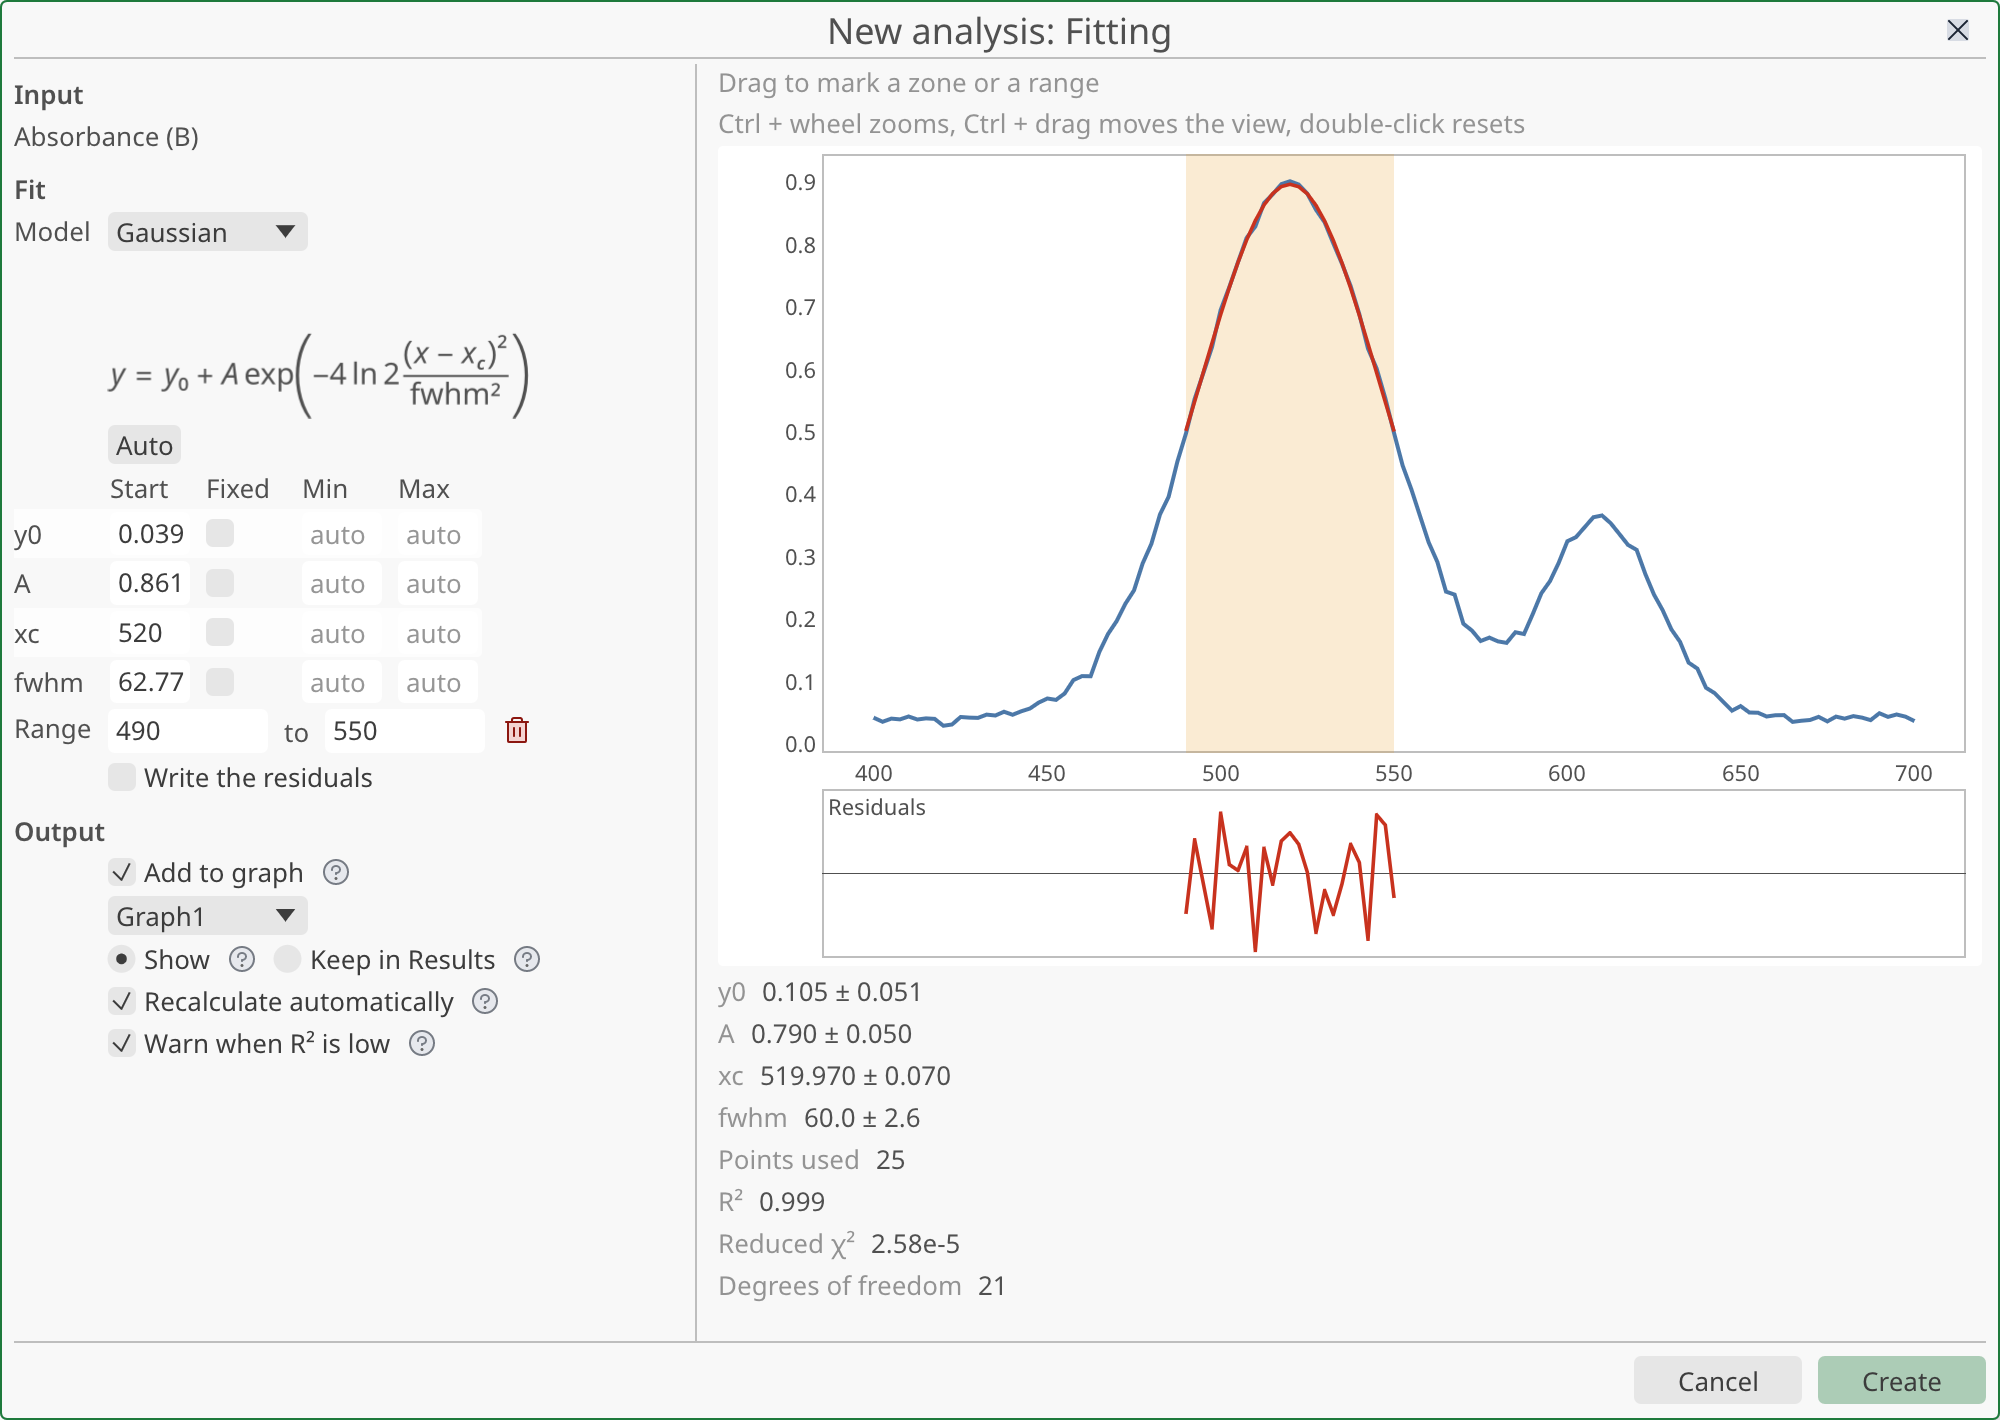
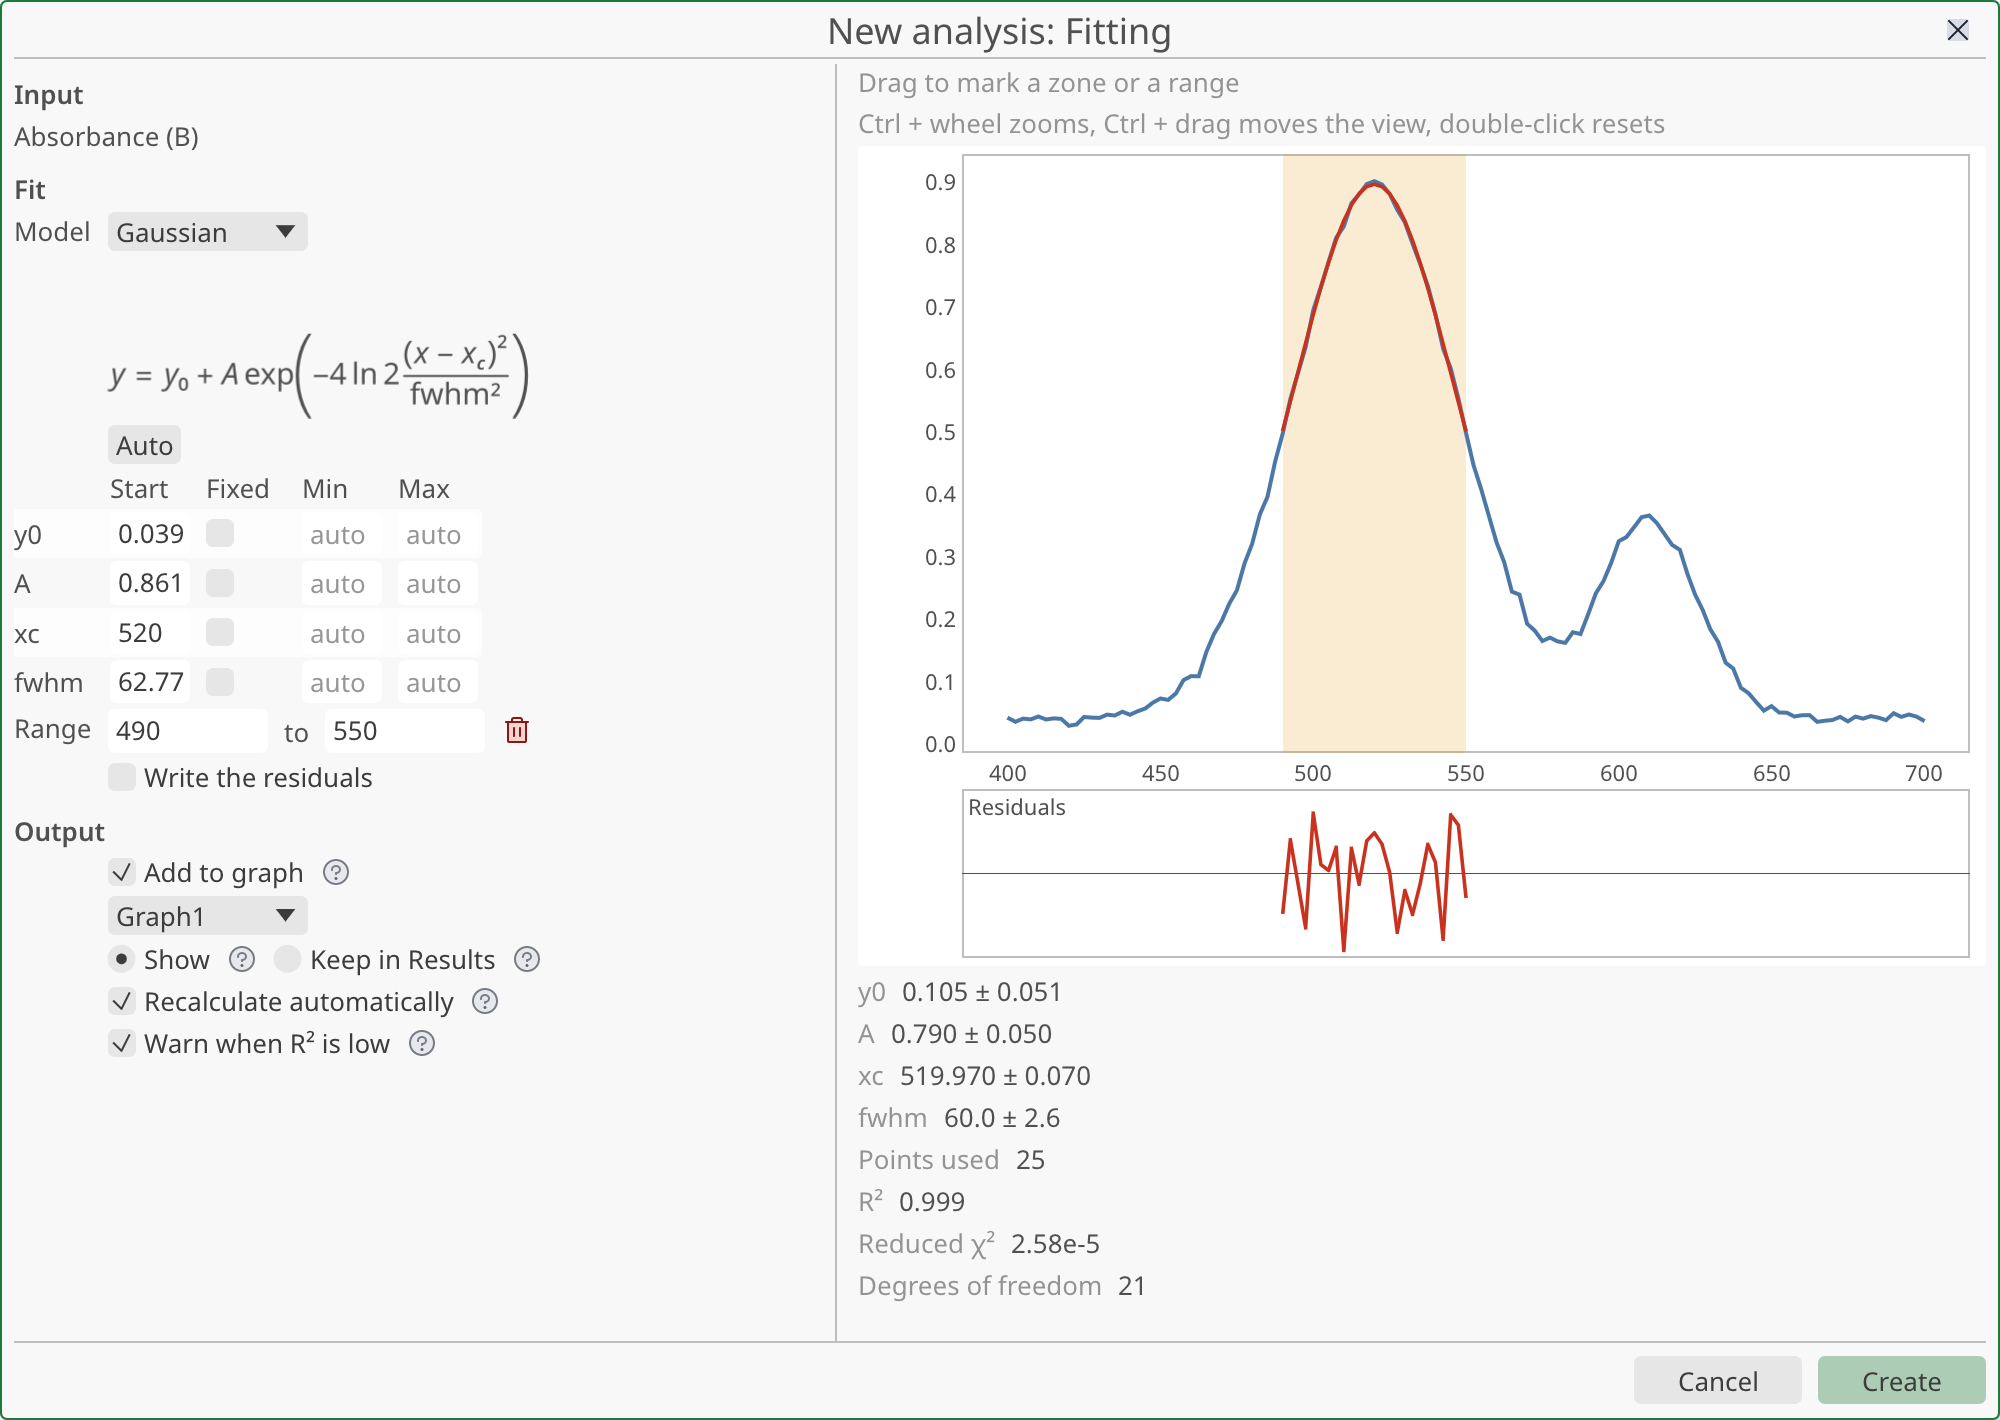
stokesforge-app: Peak Decomposition preview no longer overflows the analysis window (Closes #384)
The settings column of the analysis window was 330 pt wide but Peak
Decomposition needs about 380 pt (labels column plus the Range fields), so
the form widened while the preview width was still computed as if the
column were exactly 330 pt: the plot ran 50 pt out of the window and
"Keep in Results" wrapped. The preview now takes the width that really
remains after the form, and the column is 400 pt. Manual screenshots of the
analysis windows regenerated.

Claude-Session: https://claude.ai/code/session_01PxxG2ShyeKXrR6nqd4iMzf

diff --git a/crates/stokesforge-app/src/app/analysis_dialog.rs b/crates/stokesforge-app/src/app/analysis_dialog.rs
@@ -28,8 +28,15 @@ use stokesforge_app_state::r_squared::{level_of_value, RSquaredLevel};
 use stokesforge_app_state::state::{Action, AppState, CalculationDelete};
 use stokesforge_app_state::tr;
 
-/// Width of the settings column.
-const FORM_WIDTH: f32 = 330.0;
+/// Width of the settings column. It holds the widest form (Peak
+/// Decomposition: the labels column, then "Range" with its two fields, #384);
+/// a form that still exceeds it widens its column, and the preview takes only
+/// what remains (see `analysis_window`).
+const FORM_WIDTH: f32 = 400.0;
+/// Test seam of #384: the content rect of the window and the rect given to the
+/// preview, in ctx data under `id.with(LAYOUT_PROBE)`.
+#[cfg(test)]
+const LAYOUT_PROBE: &str = "layout-probe";
 /// Height reserved for the computed values below the preview.
 const VALUES_HEIGHT: f32 = 130.0;
 
@@ -246,6 +253,8 @@ pub(super) fn analysis_window(
         |_| {},
         |ui| {
             let full = ui.available_size();
+            #[cfg(test)]
+            let content_rect = ui.max_rect();
             ui.horizontal_top(|ui| {
                 ui.allocate_ui_with_layout(
                     egui::vec2(FORM_WIDTH, full.y),
@@ -258,8 +267,13 @@ pub(super) fn analysis_window(
                     },
                 );
                 ui.separator();
-                ui.allocate_ui_with_layout(
-                    egui::vec2((full.x - FORM_WIDTH - 24.0).max(200.0), full.y),
+                // The width that really remains after the form, which can be
+                // wider than `FORM_WIDTH` (#384): not a width computed as if it
+                // had exactly that size, which pushed the preview out of the
+                // window.
+                let preview_width = ui.available_width().max(200.0);
+                let _preview = ui.allocate_ui_with_layout(
+                    egui::vec2(preview_width, full.y),
                     egui::Layout::top_down(egui::Align::Min),
                     |ui| {
                         // The preview gestures: the analysis decides its own; only
@@ -309,6 +323,13 @@ pub(super) fn analysis_window(
                         values_panel(ui, &result, &tree, series_shown.as_ref());
                     },
                 );
+                #[cfg(test)]
+                ui.ctx().data_mut(|data| {
+                    data.insert_temp(
+                        id.with(LAYOUT_PROBE),
+                        (content_rect, _preview.response.rect),
+                    );
+                });
             });
         },
     );
@@ -531,6 +552,56 @@ mod tests {
             analysis_window(ui.ctx(), state, &mut actions);
         });
         (output, actions)
+    }
+
+    /// #384: the preview stays inside the window for every analysis, and the
+    /// settings of Peak Decomposition (the widest form) fit their column:
+    /// "Keep in Results" is painted on one line, the last tick is complete.
+    #[test]
+    fn the_preview_stays_inside_the_window_and_the_widest_form_fits() {
+        for preset in [
+            Preset::Peaks,
+            Preset::Fit(Model::Linear),
+            Preset::Integrate,
+            Preset::Correct,
+            Preset::DirectDeconvolution,
+        ] {
+            let ctx = context();
+            let (session, mut state, sheet, ids) = bench();
+            state.dispatch(Action::OpenAnalysis {
+                preset: preset.clone(),
+                sheet,
+                columns: vec![ids[0], ids[1]],
+            });
+            frame(&ctx, &mut state);
+            let (output, _) = frame(&ctx, &mut state);
+            let (content, preview): (egui::Rect, egui::Rect) = ctx
+                .data(|data| {
+                    data.get_temp(egui::Id::new("stokesforge_analysis").with(LAYOUT_PROBE))
+                })
+                .expect("the dialog records its layout");
+            assert!(
+                preview.right() <= content.right() + 0.5,
+                "{preset:?}: preview right edge {} beyond the window content {}",
+                preview.right(),
+                content.right()
+            );
+            if matches!(preset, Preset::Peaks) {
+                let keep = tr!("analysis-output-keep");
+                let rows = output
+                    .shapes
+                    .iter()
+                    .find_map(|painted| match &painted.shape {
+                        egui::Shape::Text(shape) if shape.galley.job.text == keep => {
+                            Some(shape.galley.rows.len())
+                        }
+                        _ => None,
+                    })
+                    .expect("\"Keep in Results\" is painted");
+                assert_eq!(rows, 1, "\"Keep in Results\" wrapped onto several lines");
+            }
+            session.shutdown().unwrap();
+        }
     }
 
     #[test]

diff --git a/docs/interface-standard.md b/docs/interface-standard.md
@@ -564,6 +564,12 @@ of their nature (`InteractiveSize`: default, class, free;
   other number, no number, too far; justified, comment, string and test code
   pass). Free sizes today: the analysis, the import
   wizard, the `preferences_proto` bench.
+- **Analysis window, two columns** (#384): the settings column is `FORM_WIDTH`
+  wide (400 pt, sized for Peak Decomposition, the widest form) and the preview
+  takes the width that **really remains** after the column, never a width
+  computed as if the column had exactly `FORM_WIDTH`. Witness:
+  `analysis_dialog::tests::the_preview_stays_inside_the_window_and_the_widest_form_fits`
+  (preview inside the window for five analyses; "Keep in Results" on one line).
 - **`the_window_catalog_and_the_code_agree`**: every literal
   `"stokesforge_…"` passed as an argument of a `modal_*` function (before its
   closures) appears in backticks in `docs/windows.md`, and every

diff --git a/CHANGELOG.md b/CHANGELOG.md
@@ -24,6 +24,13 @@ without a message, see `docs/persistence.md`).
 
 ## [Unreleased]
 
+### Fixed
+
+- Peak Decomposition window (#384): the preview no longer overflows the window
+  (the last tick read "70" instead of "700") and "Keep in Results" no longer
+  wraps; the settings column is wider and the preview takes the width that
+  remains.
+
 ### Changed
 
 - Linux archive (#389): it is now built on Ubuntu 22.04 and checked in CI, so it
